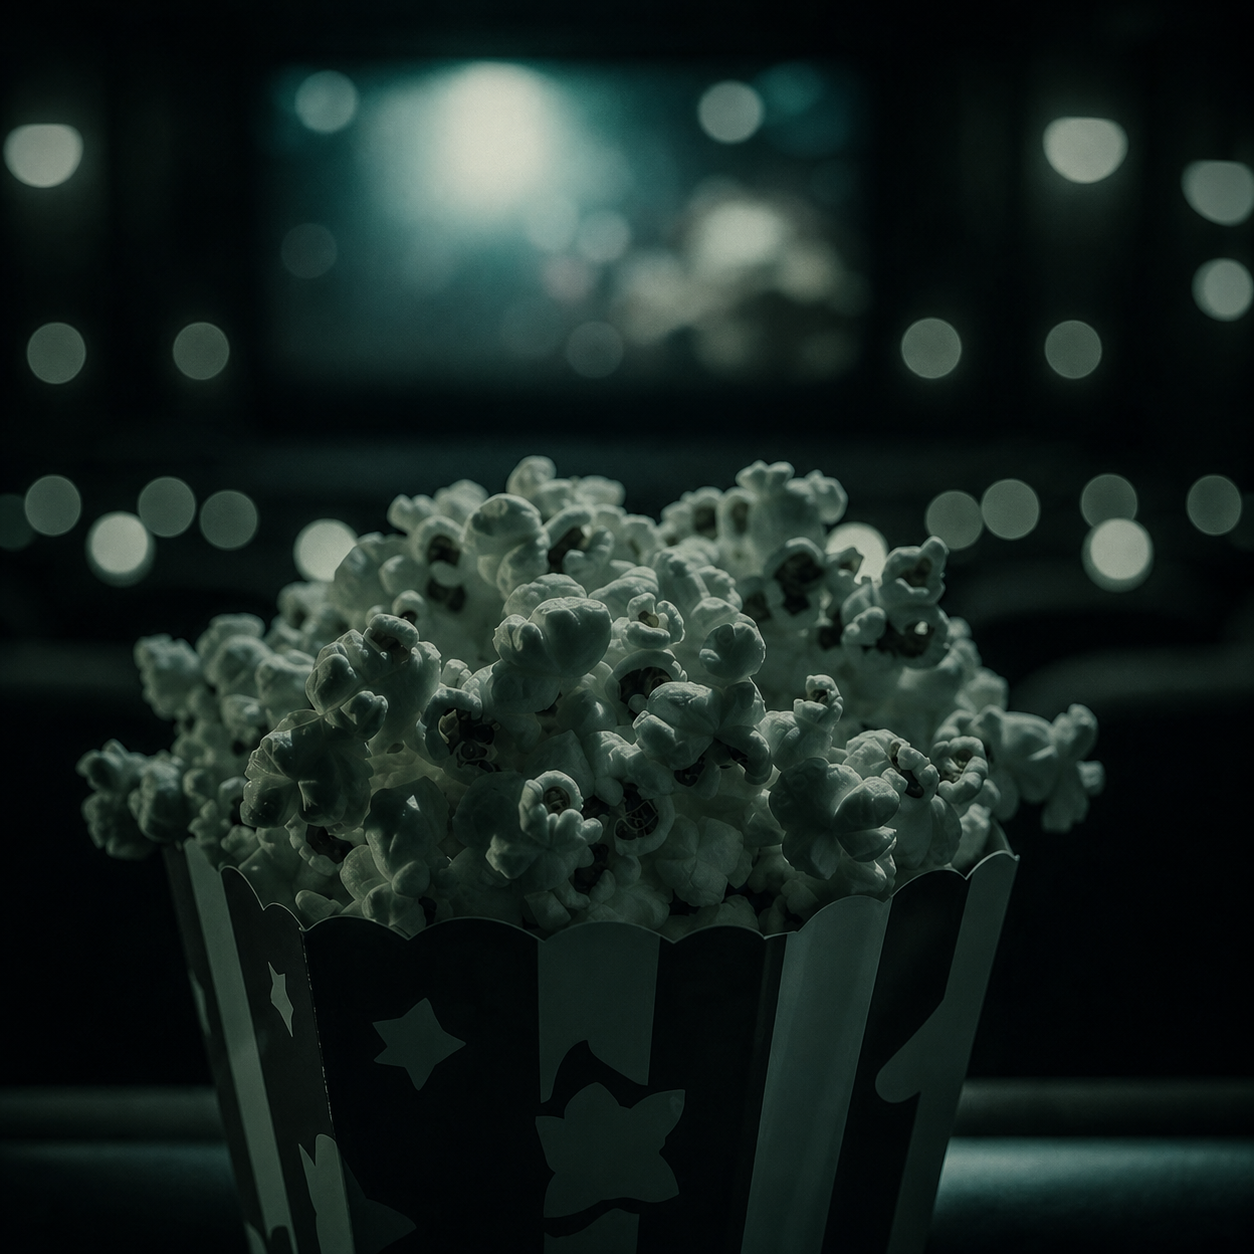
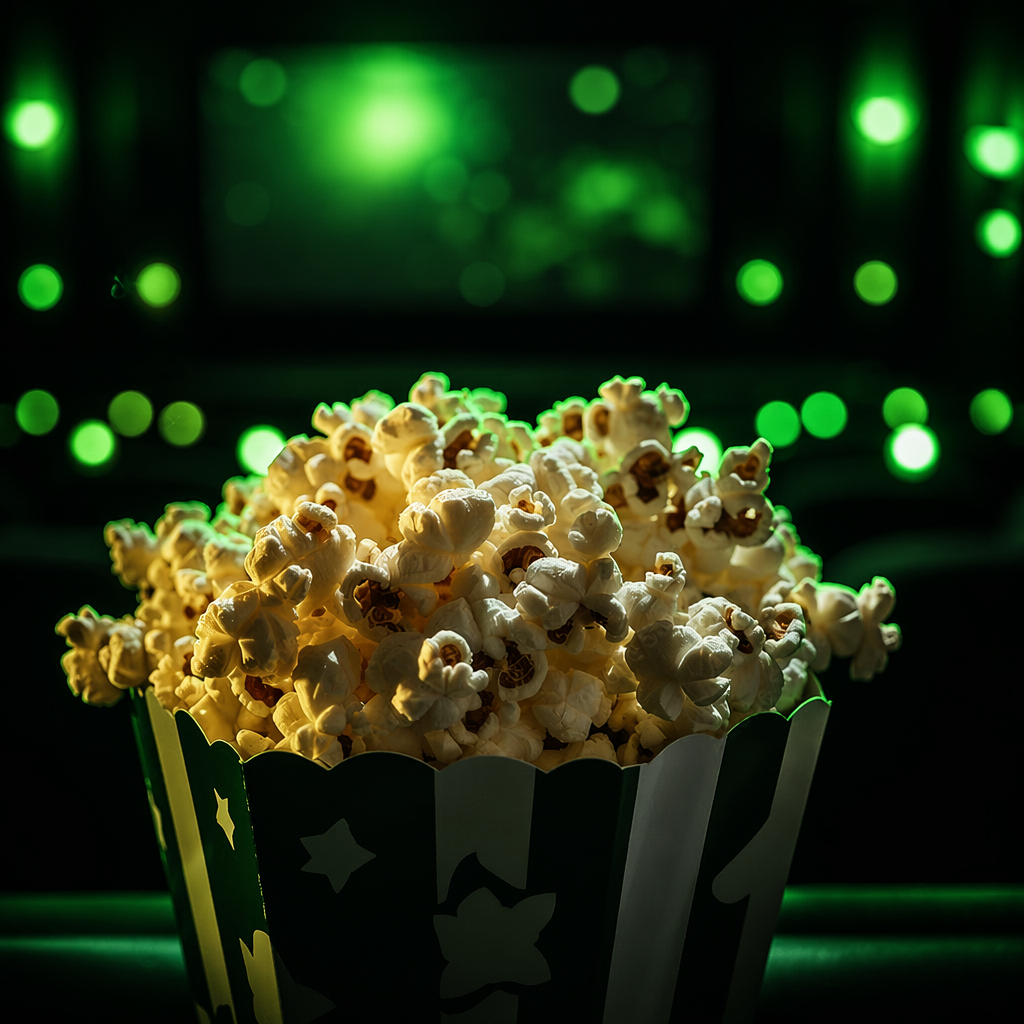
Ecossistema/app: opacidade 0.75 nas imagens dos cards do carrossel

diff --git a/index.html b/index.html
@@ -816,7 +816,7 @@
   .tile b{font-size:13px;font-weight:600;line-height:1.35}
   .tile span{font-size:10.5px;color:var(--ink-dim)}
   .tile.timg{padding:0}
-  .tile.timg img{width:100%;height:100%;object-fit:cover;display:block}
+  .tile.timg img{width:100%;height:100%;object-fit:cover;display:block;opacity:.75}
   .tile.tpart .tmono{width:44px;height:44px;border-radius:12px;display:flex;align-items:center;
     justify-content:center;font-size:14px;font-weight:700;color:#052008;background:var(--green)}
   /* card de LOGO do parceiro: logo maior + fundo (placas) MUITO fraco e borrado */